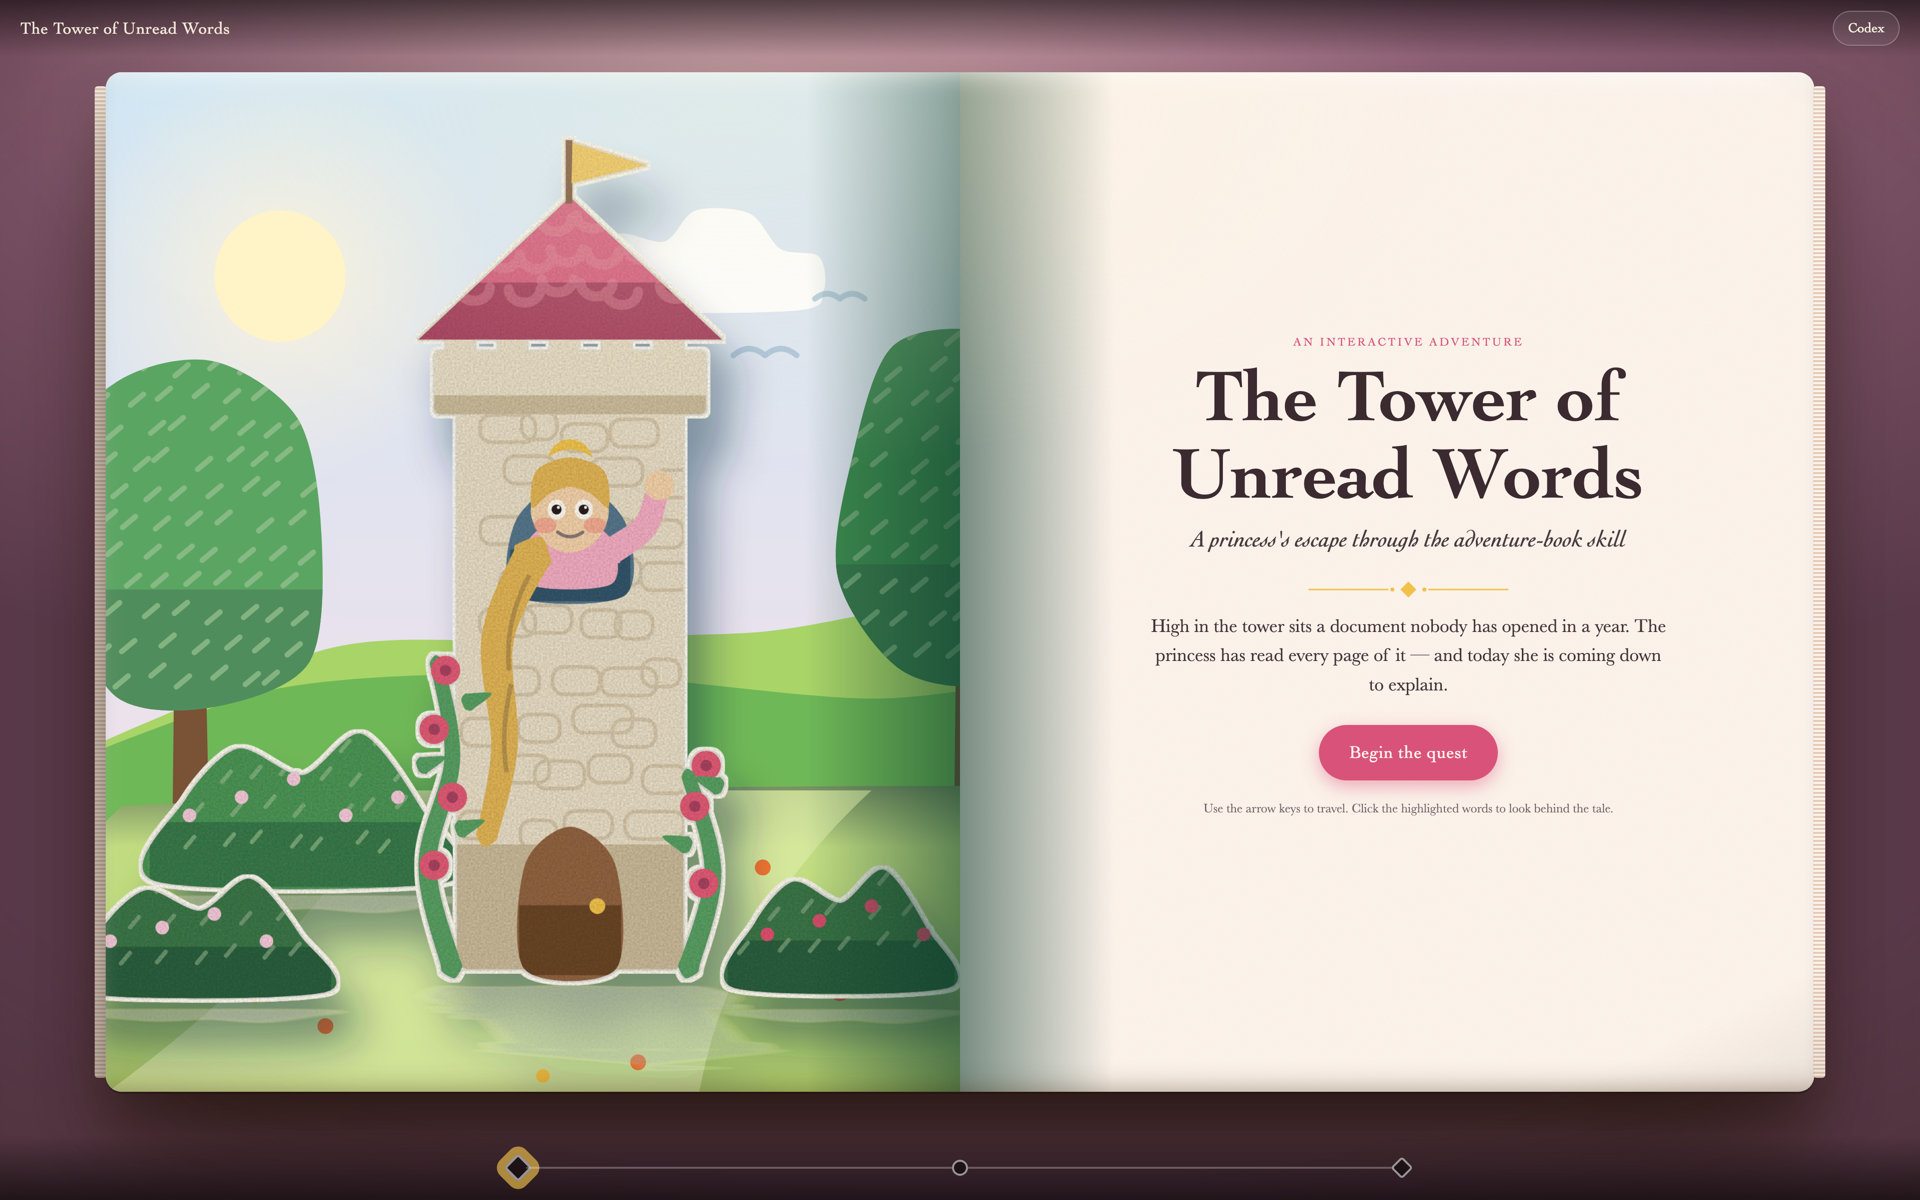
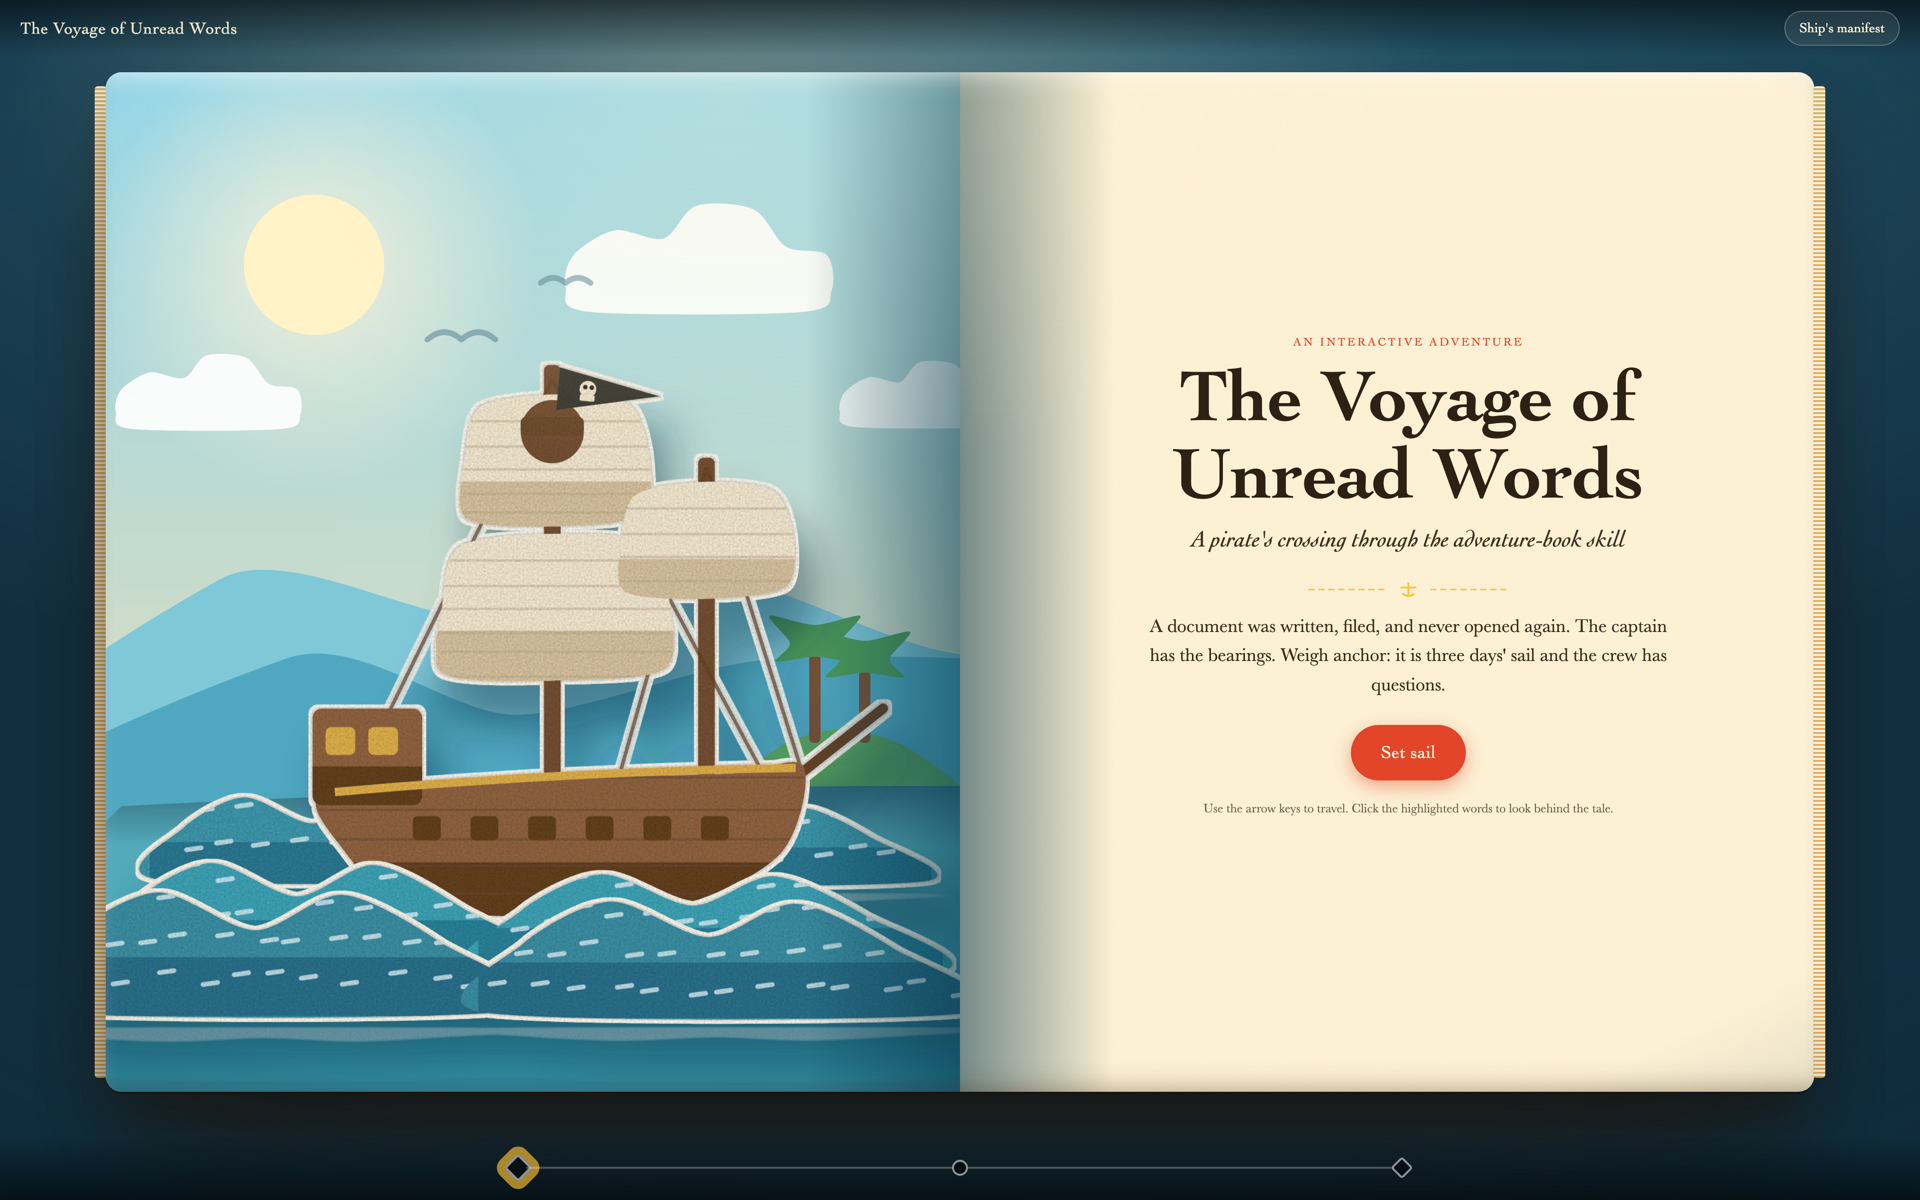
Swap the README cover for the voyage
A pirate galleon under sail in the `pirate` theme, replacing the tower.
Rendered from the current scene engine, so the image shows what the skill
produces today: layered paper-cut flats with the sea standing in front of
and behind the hull.

diff --git a/README.md b/README.md
@@ -2,9 +2,9 @@
 
 Turn any Markdown document into a self-contained interactive HTML **adventure book**.
 
-![The cover of an adventure book: a paper-cut princess waving from the window of a stone tower with a coral roof, her long braid hanging past climbing roses, green hills and trees behind](docs/cover.png)
+![The cover of an adventure book: a paper-cut pirate galleon under three sails on a rolling blue sea, a skull pennant at the masthead, a palm island on the horizon](docs/cover.png)
 
-<sup>A cover in a custom theme extending `knight`. Every scene is generated SVG: paper-cut flats standing on the page, with the words printed on the facing leaf.</sup>
+<sup>A cover in the `pirate` theme. Every scene is generated SVG: paper-cut flats standing on the page, with the words printed on the facing leaf.</sup>
 
 A README, onboarding guide, AGENTS.md, ADR, spec, runbook, tutorial, postmortem — or a plain
 old story — becomes a themed journey the reader travels stage by stage. Every page is an open
